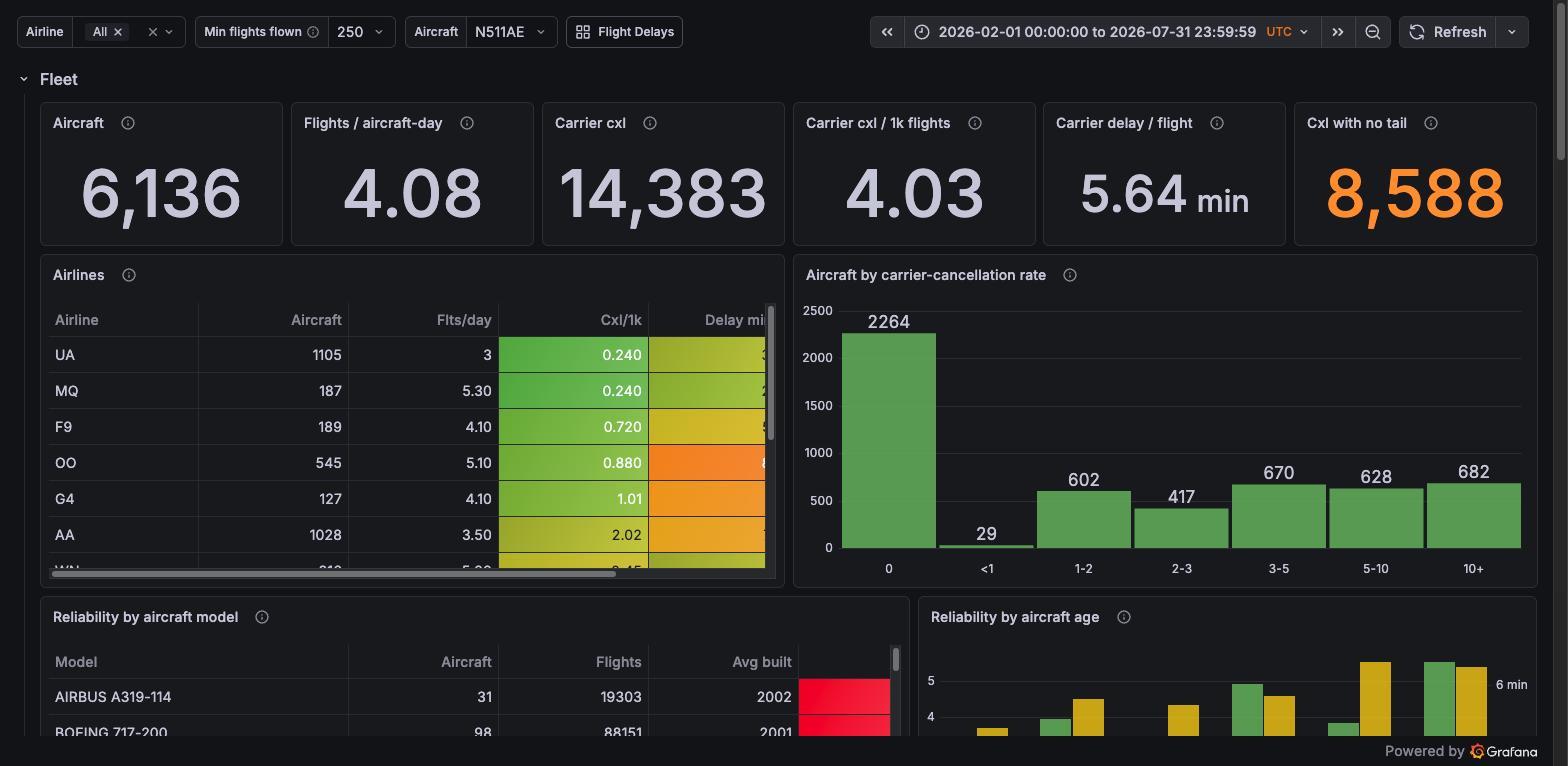
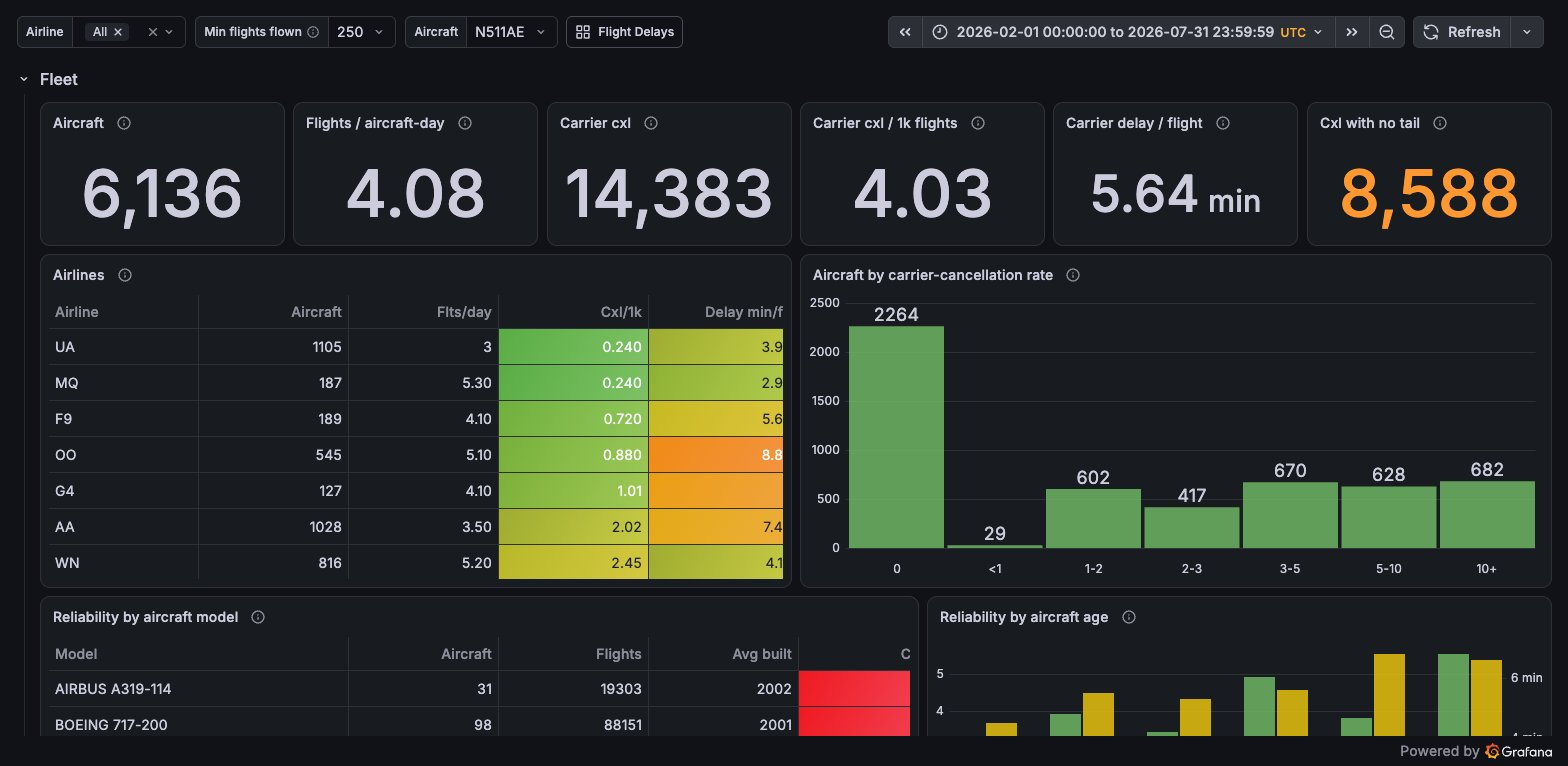
Retake the README screenshots on Databricks; benchmark on ten years
The screenshots show the same views as before, February to July 2026,
now from Grafana 13.2 with the Databricks plugin on the full ten-year
load in a Free Edition workspace.

The flight-history benchmark on ten years: 4.0 queries/s with 8 threads
back to back (p50 1.9 s), the same with 16, and a p50 of 0.7 s at a
steady 2 queries/s. testresults_query.csv records the runs.

diff --git a/README.md b/README.md
@@ -168,9 +168,26 @@ and by length of range. `--log FILE` writes one line per query, and `--seed N` r
 earlier run's queries. Add `--time "what changed"` before the workload to append a summary
 to `testresults_query.csv`, as `reproduce.sh` does for loads.
 
-A first test on the one month loaded, 8 threads for 20 seconds, managed 5.2 queries a
-second, at a p50 of 1.5 s and a p99 of 2.8 s. `ontime` is clustered by `tail` and
-`FlightDate`, so a query reads only the files that can hold that aircraft's flights.
+Tested with all ten years loaded, from the M2 Mac at home to the Free Edition warehouse,
+with the same seed each time, so the queries were identical:
+
+| Range | Flights returned | 8 threads, back to back: p50 / p99 | 2 queries a second: p50 / p99 |
+| --- | ---: | ---: | ---: |
+| 1 to 7 days | 7 | 1.8 s / 2.7 s | 640 ms / 1.5 s |
+| 8 to 31 days | 31 | 1.7 s / 2.5 s | 668 ms / 1.1 s |
+| 1 to 12 months | 189 | 1.9 s / 3.2 s | 728 ms / 1.3 s |
+| 1 to 10 years | 2,730 | 2.3 s / 5.5 s | 931 ms / 2.7 s |
+| **Queries a second** | | **4.0** | **2.0** |
+
+- **The warehouse is the limit.** Free Edition's warehouse completes about 4 queries a
+  second, whatever the client sends: 16 threads managed 4.2, with twice the latency (p50
+  3.5 s), as the extra queries only wait.
+- **Latency hardly depends on the range.** Running a query has a fixed cost, about 0.6 s
+  from home, so a week of one aircraft's flights takes almost as long as ten years.
+- **Compared with ClickHouse**, which managed 41 queries a second on a 4-core i5-6500 at
+  home (see clickhouse-faadata-demo's README), and 92 on an 8-vCPU EC2 instance, a Free
+  Edition warehouse is for trying the demo, not for serving many users. A paid workspace
+  can use a larger warehouse, and more clusters of it.
 
 ## Data mirror
 
@@ -251,8 +268,8 @@ in the time range.
 
 ### Screenshots
 
-These show the ClickHouse version, with ten years loaded; the dashboards are the same, and
-will be retaken on Databricks once the full data set is loaded here.
+Taken from Grafana 13.2 with the community Databricks plugin, on the ten years loaded into a
+Free Edition workspace.
 
 **Flight Delays**, February to July 2026: headline figures, delays and cancellations by
 day, delay causes by month and the airline table (top, above); further down, the airport
